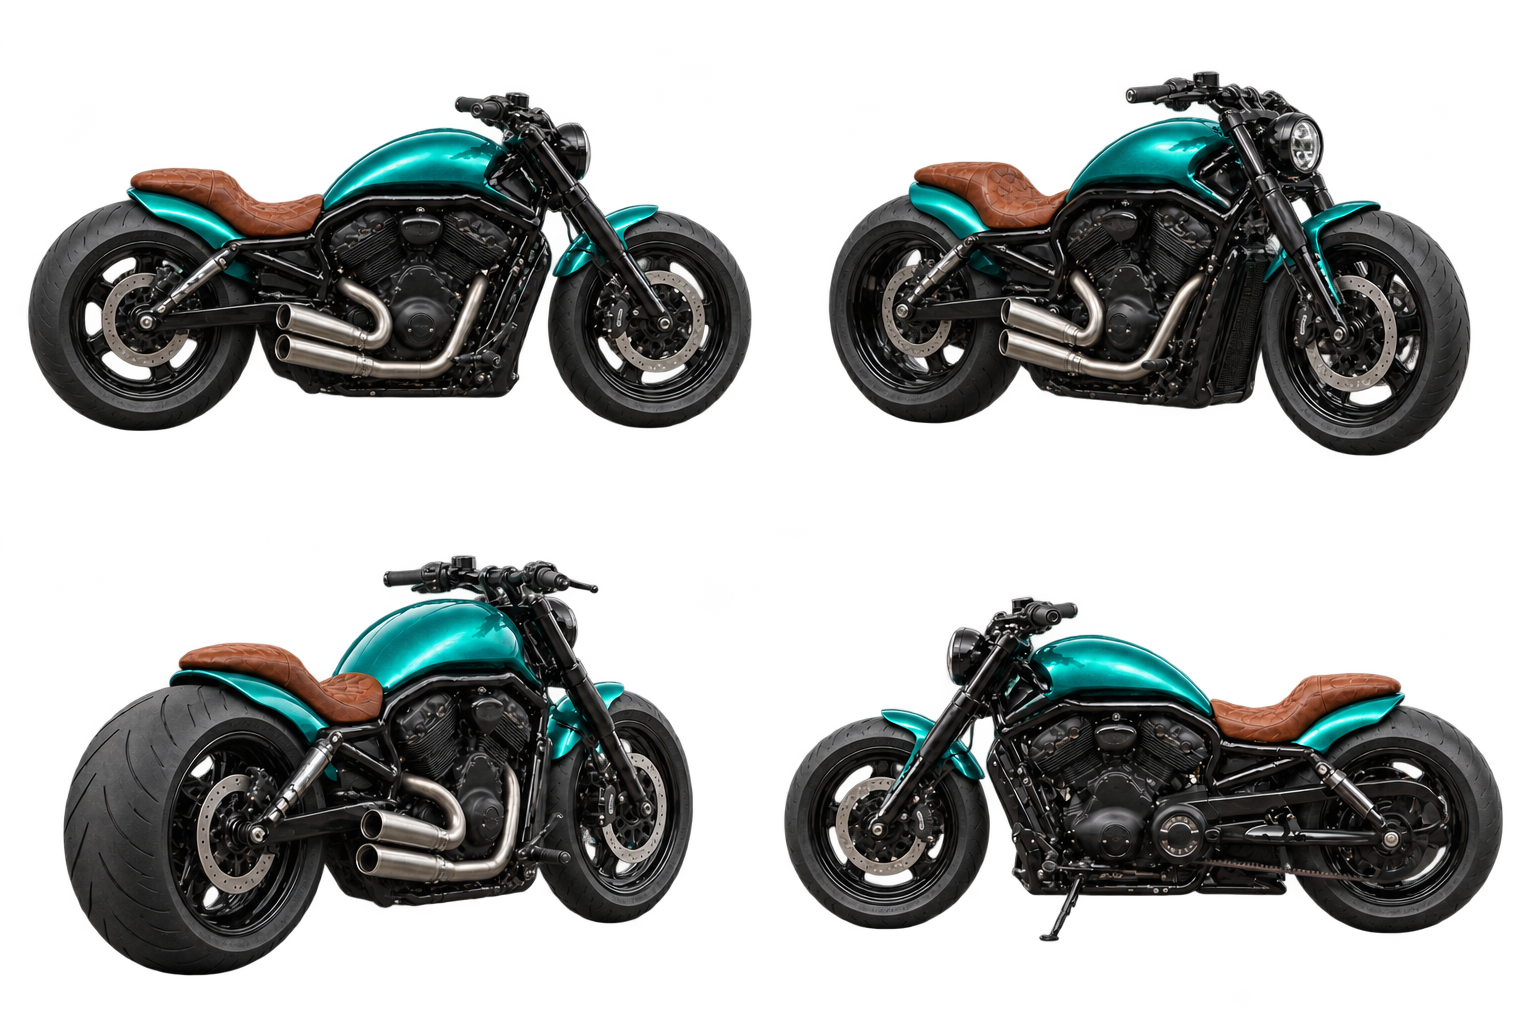
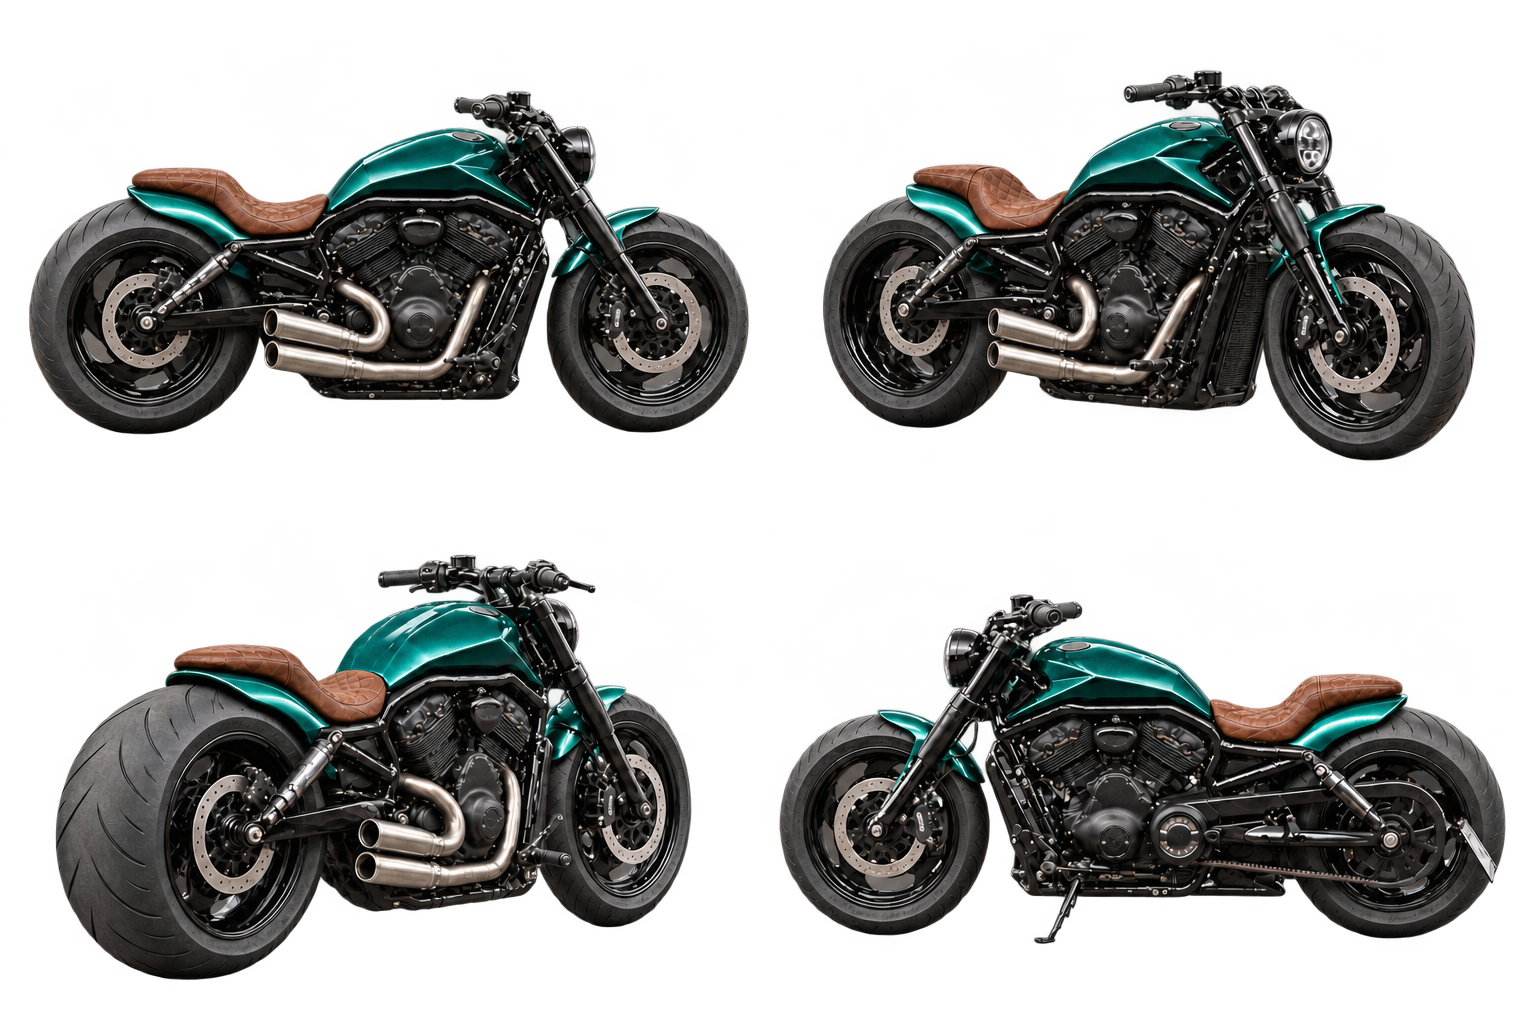
Correct front tire width and align V-Rod image details

diff --git a/docs/image-prompts.md b/docs/image-prompts.md
@@ -2,9 +2,31 @@
 
 ## Visual review
 
-Reviewed all 12 source frames (six angles × two exhaust options), including comparison with the workshop reference. Corrected mirrored extra exhaust pipes in the front views, the stray left-side exhaust header in the rear Short Cut view, and the overly wide front tire. The other four angles retain their existing source images. Paint and leather are recolored from these frames rather than regenerated for each selection.
+Reviewed all 12 source frames (six angles × two exhaust options). After user feedback, widened the front tire and fender. Updated all four main angles against the workshop reference to bring tank contour, saddle, wheel pattern and plate bracket closer to the reference. Derived Short Cut from the corrected Twin Black sheet with an exhaust-only edit, then aligned the axial views with the updated build. Paint and leather are recolored from these frames rather than regenerated for each selection.
 
-Remaining limitations: generated geometry is approximate. Tank contour, saddle profile, wheel spoke pattern and small mechanical details do not exactly reproduce the workshop motorcycle or remain perfectly identical across perspectives. The source photo includes a rear plate bracket that these concept images omit. Do not present these assets as verified catalog imagery; exact consistency requires an approved 3D model or matched photography of the actual parts.
+Remaining limitations: generated geometry is approximate. Small mechanical details do not reproduce the workshop motorcycle exactly or remain pixel-identical across perspectives. Do not present these assets as verified catalog imagery; exact consistency requires an approved 3D model or matched photography of the actual parts.
+
+## Latest revision — built-in ImageGen
+
+Final assets: `public/images/vrod-twin.png`, `public/images/vrod-short.png`, `public/images/vrod-axial.png`.
+
+### Front tire correction
+
+Precise localized edit: fix ONLY the too skinny front tire and matching teal front fender in both LEFT-column cells of this 1536x1024 transparent 2x2 motorcycle atlas. Make each FRONT TIRE 1.5 times its current width, centered on exactly the current centerline, while keeping exactly its current height, vertical position and ground contact. Widen the teal front fender accordingly. Aim for a substantial muscular cruiser front tire, approximately 60 percent of the visible rear tire width in the right-column views. Do NOT widen the forks or change camera/framing. Preserve all other pixels and mechanical parts as closely as possible: front headlight, handlebars, engine, body, saddle and exactly two right-side exhaust pipes remain unchanged. BOTH RIGHT-column rear-view motorcycles must remain exactly unchanged, with no changes at all to rear tire, wheels, exhaust or body. Keep identical 2x2 layout, 768x512 cells, transparency, colors, studio lighting, dimensions, and no text.
+
+### Main build correction
+
+Use case: precise-object-edit. Image 1 is the EDIT TARGET, a 1536x1024 transparent 2x2 product atlas, each cell 768x512. Image 2 is the authoritative REFERENCE photo of the actual Brobobber V-Rod motorcycle. Correct the target motorcycle identity to match the real reference while preserving the atlas camera directions and framing exactly: top-left right profile facing right, top-right front-right three-quarter facing right, bottom-left rear-right three-quarter, bottom-right left profile facing left. Across ALL four views restore the same reference bike's angular sculpted tank profile (not generic rounded peanut tank), stepped diamond-quilt saddle silhouette, broad blade-style black alloy wheel pattern, Revolution engine case silhouette, and compact rear-side license plate bracket as in photo. The bike in every tile must be one identical build seen from different cameras. Keep the target's teal metallic body panels and warm cognac leather, neutral black mechanics, and exactly TWO long satin black exhaust silencers on the MOTORCYCLE RIGHT side only; these are the chosen customizations. Left profile should not suddenly gain right-side exhausts. The reference is left side, so do not mirror drive belt/brake/engine details when making right views. Keep wheelbases, tire diameters, lighting, transparent alpha, photographic quality and all bike extents inside original cells. Do not add mirrors, bags, rider, graphics or extra lights or pipes. No visible text, borders or backgrounds. Same 1536x1024 dimensions and 2x2 cell grid. Prioritize coherent mechanical identity and the real reference's tank, saddle and wheels.
+
+### Short exhaust variant
+
+Precise exhaust-only edit. Image 1 is the authoritative EDIT TARGET, a transparent 1536x1024 2x2 atlas of one custom V-Rod with angular teal bodywork, cognac quilt saddle and black blade-style wheels. Image 2 is ONLY a reference for the SHORT EXHAUST design. In image 1 replace the two long black exhaust silencers on the motorcycle's RIGHT side with exactly two SHORT brushed stainless exhaust pipes matching image 2. Apply this to top-left right profile, top-right front-right three quarter, bottom-left rear-right three quarter. Keep pipes on the motorcycle RIGHT only. The bottom-right LEFT profile should be unchanged because the exhaust is hidden on the far side. Keep EVERYTHING ELSE from image 1 unchanged: precise tank shape, saddle, front/rear wheels and tire width, all mechanical components, front fork, headlight, frame, plate bracket, cameras, scales, ground positions, color, lights and alpha. Do not redraw the bike or swap its geometry. No added parts. Preserve same 1536x1024 size and exact 2x2 grid. Genuine transparent background and no text.
+
+### Front/rear consistency
+
+Precise identity consistency edit. Image 1 is the EDIT TARGET: transparent 1536x1024 2x2 atlas, top row long black exhaust, bottom row short stainless exhaust; left column exact front view, right column exact rear view. Image 2 is the AUTHORITATIVE motorcycle identity reference sheet with corrected angular sculpted teal tank, stepped cognac diamond-quilt saddle, black blade-style wheels and compact license plate bracket on motorcycle LEFT rear side. Update ONLY body silhouette details in target 1 to match reference 2: angular tank upper/side planes instead of rounded peanut tank; consistent stepped saddle and short rear fender; restore the slim side-mounted plate bracket on motorcycle LEFT where visible (viewer LEFT in rear views, a subtle partly hidden edge only from front). CRITICAL preserve current corrected FRONT TIRE width and height exactly in both left-column views. Preserve rear tire width and heights, front fork positions, headlight, handlebars, cameras, scale and positions inside all four cells. Exactly two exhaust pipes on motorcycle RIGHT: viewer LEFT in front, viewer RIGHT in rear. No exhaust pipe on the opposite side. Top row black long pipes, bottom row short stainless pipes. No mirrors, bags, new lights, labels, text, new mechanical assemblies or extra parts. Every tile must depict same bike. Keep current exact atlas layout, dimensions, all wheels inside cells, teal/cognac materials for tinting, neutral black mechanics, studio lighting and genuine transparent alpha.
+
+The prompts below document the earlier generation passes.
 
 ## Mechanical correction prompt
 
